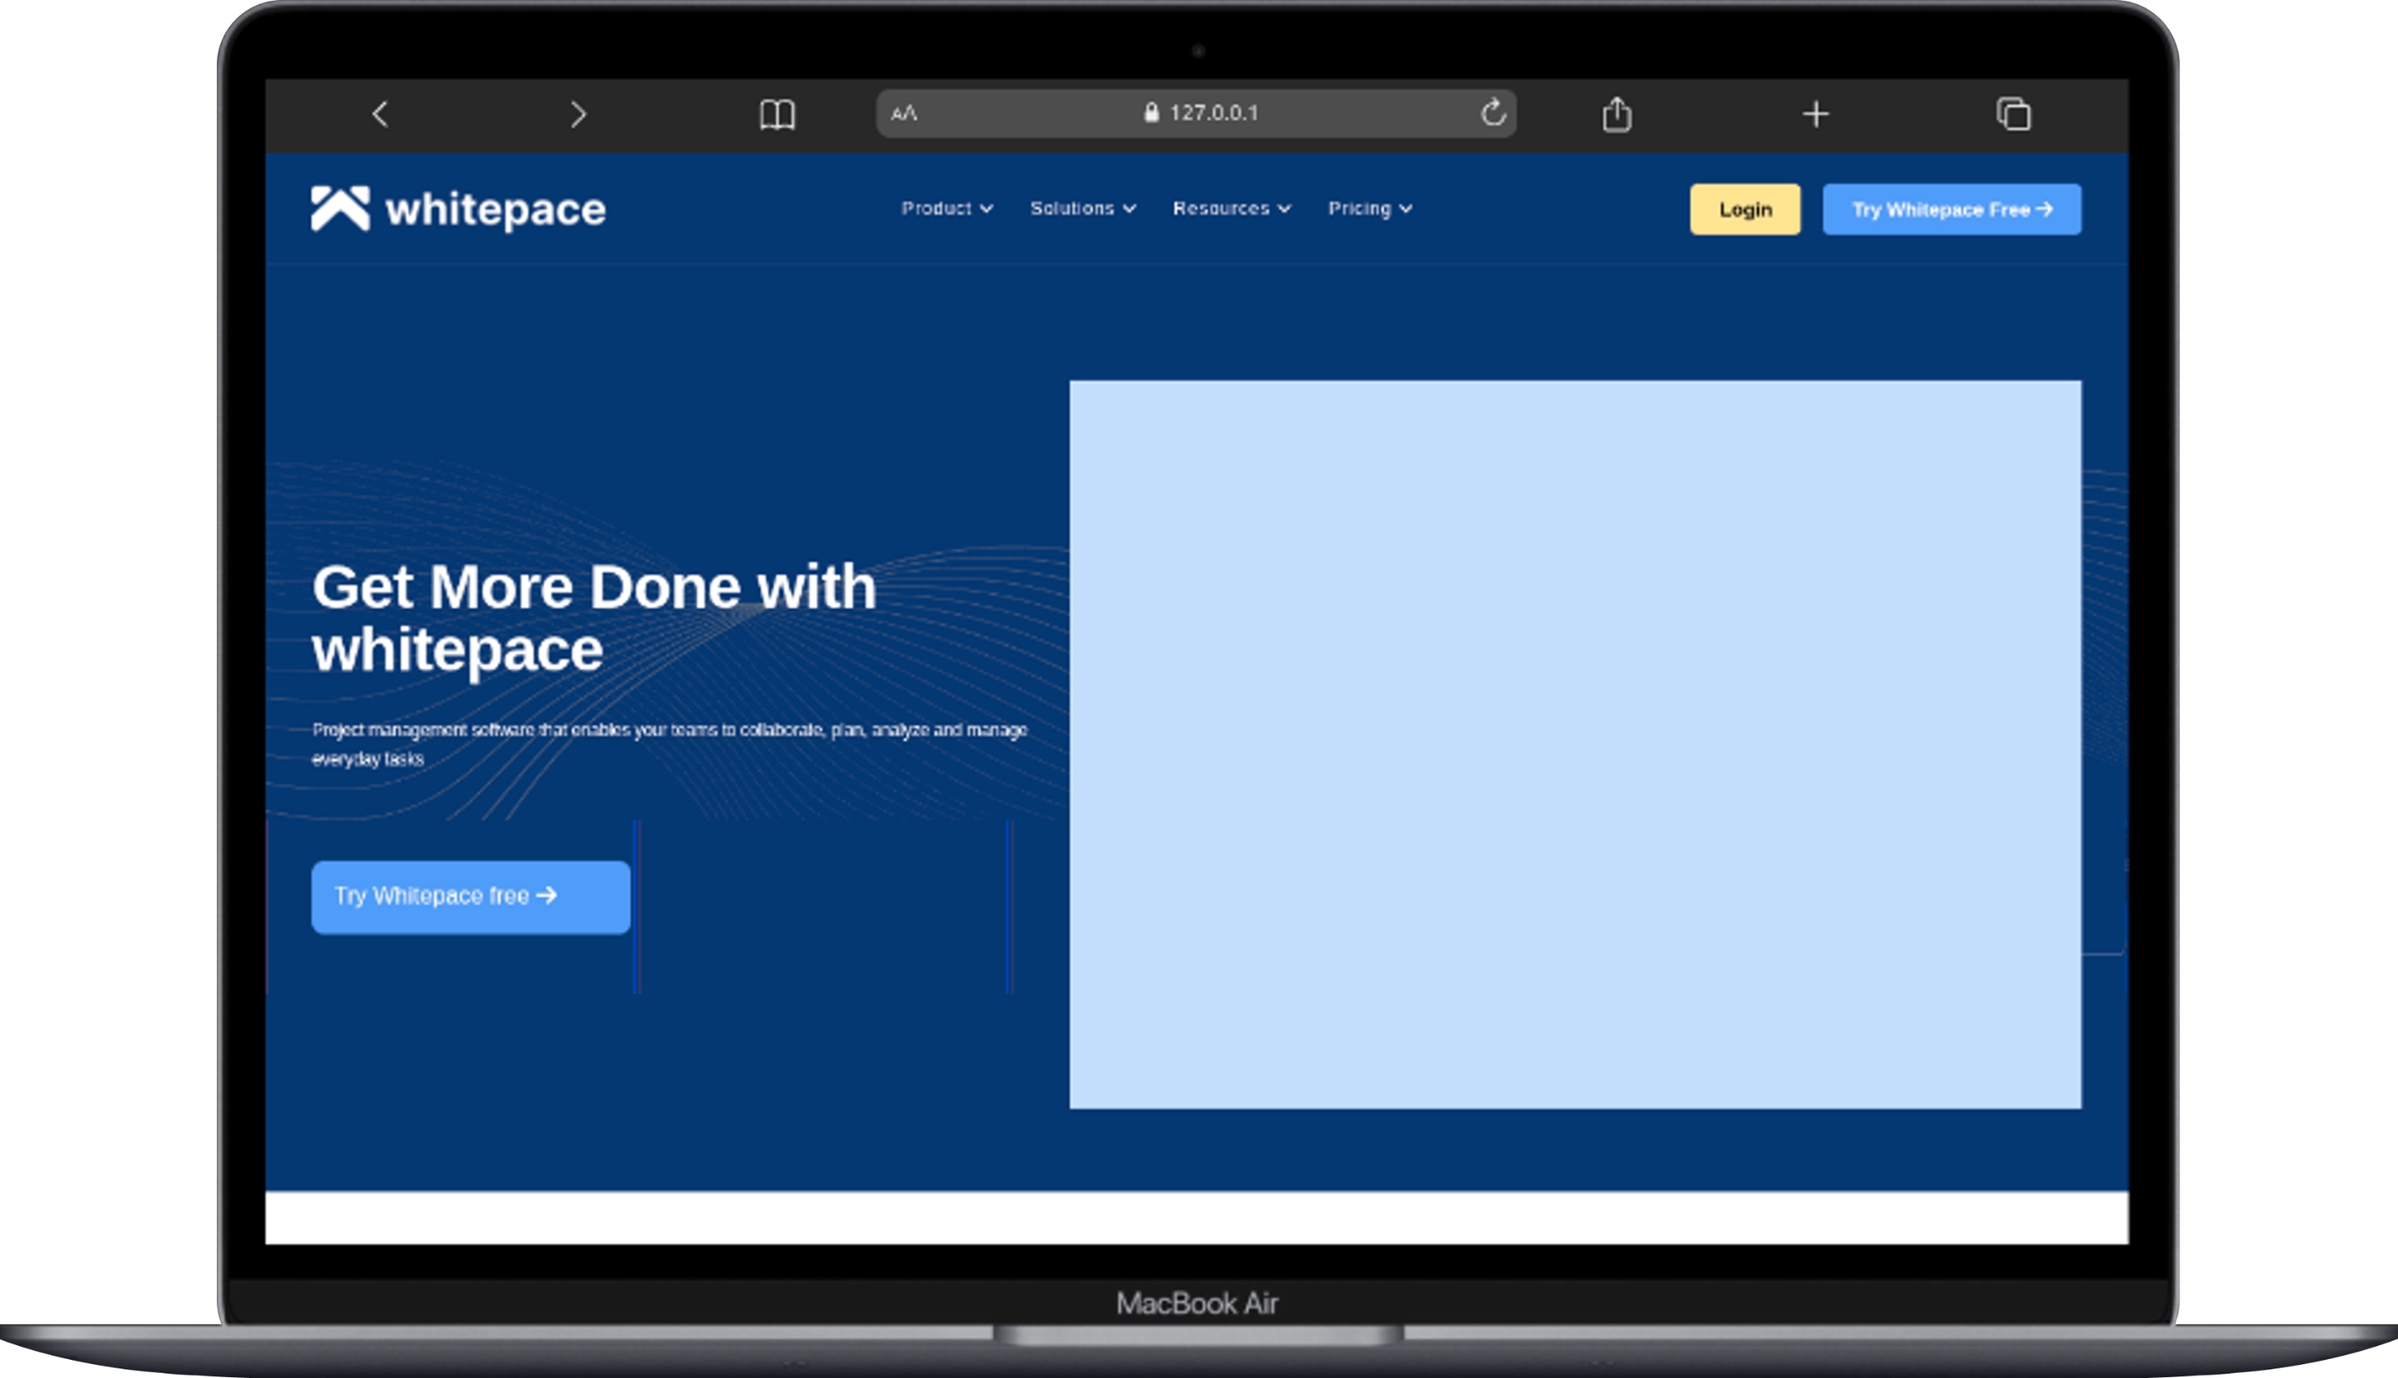
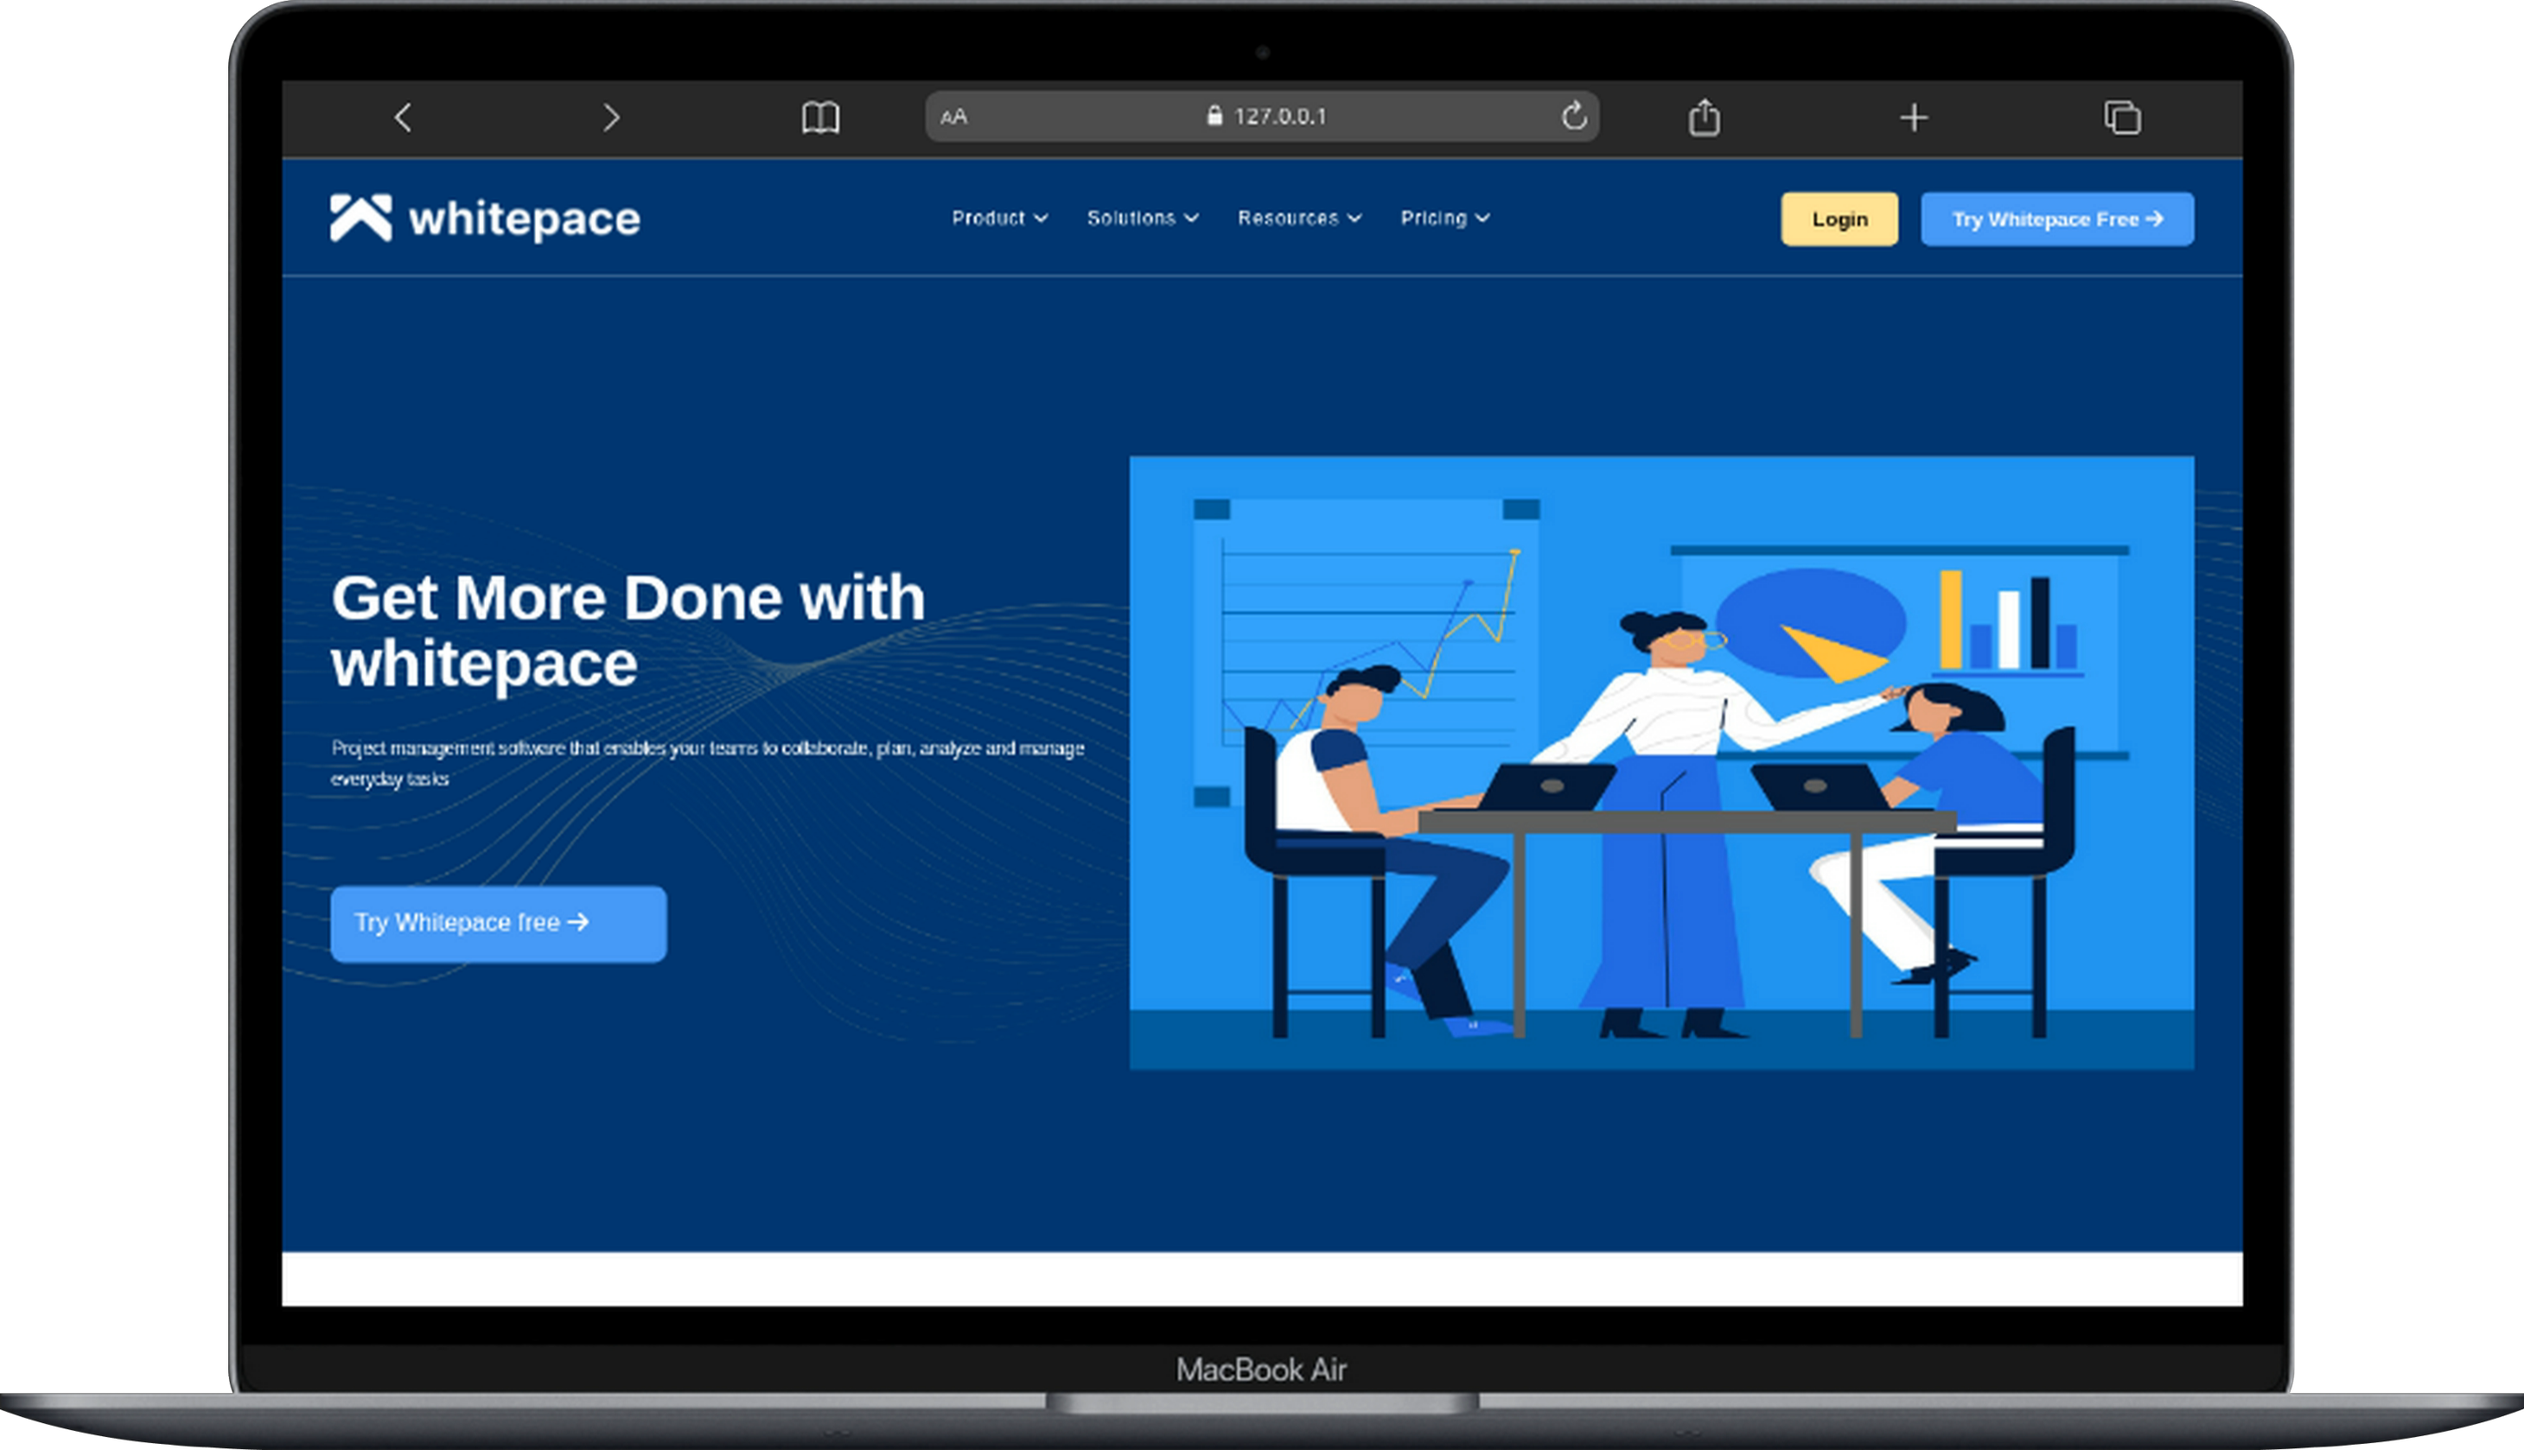
feat: update images in index.html

Changed region(s): [[0.093, 0.2767, 0.8991, 0.83], [0.0, 0.8607, 0.9921, 0.9837], [0.093, 0.0615, 0.8991, 0.1844]]

diff --git a/index.html b/index.html
@@ -46,7 +46,9 @@
           <p>Try Whitepace free <i class="fa-solid fa-arrow-right"></i></p>
         </div>
       </div>
-      <div class="image-container"></div>
+      <div class="image-container">
+        <img src="assets/images/projetman.jpg" alt="project management">
+      </div>
     </div>
 
     <div class="managment">
@@ -67,7 +69,9 @@
           </div>
         </div>
 
-        <div class="image-container top-box"></div>
+        <div class="image-container top-box">
+          <img src="assets/images/manag.jpeg" alt="management">
+        </div>
       </div>
 
       <!-- content2 -->
@@ -105,13 +109,17 @@
             <p>Let's Go <i class="fa-solid fa-arrow-right"></i></p>
           </div>
         </div>
-        <div class="customise-image"></div>
+        <div class="customise-image">
+          <img src="assets/images/extension.jpeg" alt="Extension">
+        </div>
       </div>
     </div>
 
     <div class="customise2">
       <div class="customise-container">
-        <div class="customise-image"></div>
+        <div class="customise-image">
+          <img src="assets/images/ui.jpeg" alt="ui">
+        </div>
         <div class="customise-content custom-text2">
           <h1>Customise it to <span>your needs</span></h1>
           <p>

diff --git a/assets/styles/responsive.css b/assets/styles/responsive.css
@@ -64,7 +64,6 @@
   .image-container {
     width: 100%;
     height: 300px;
-    background: #c4defd;
   }
 
   .bottom-box {
@@ -172,11 +171,10 @@
     font-size: 15px;
   }
 
-  .image-container,
-  .customise-image {
-    width: 70%;
+  .image-container img,
+  .customise-image img{
+    width: 90%;
     height: 300px;
-    background: #c4defd;
   }
 
   .managment {
@@ -202,7 +200,7 @@
   }
 
   .image-container img {
-    width: 70%;
+    width: 90%;
     height: 300px;
     display: block;
     margin: auto;
@@ -364,7 +362,7 @@
 
   .image-container,
   .image-container img,
-  .customise-image {
+  .customise-image img {
     width: 100%;
     height: 300px;
   }

diff --git a/assets/styles/style.css b/assets/styles/style.css
@@ -138,10 +138,9 @@ button {
   color: #fff;
 }
 
-.image-container {
+.image-container img{
   width: 100%;
-  height: 500px;
-  background: #c4defd;
+  height: 550px;
 }
 
 .managment {
@@ -233,15 +232,6 @@ button {
   gap: 10px;
 }
 
-.top-box {
-  height: 350px;
-  background: #c4defd;
-}
-
-.bottom-box {
-  background-color: #fff;
-}
-
 .image-container img {
   max-width: 100%;
   height: 400px;
@@ -320,10 +310,9 @@ button {
   gap: 10px;
 }
 
-.customise-image {
+.customise-image img{
   width: 100%;
   height: 350px;
-  background-color: #c4defd;
 }
 
 /* pricing */
